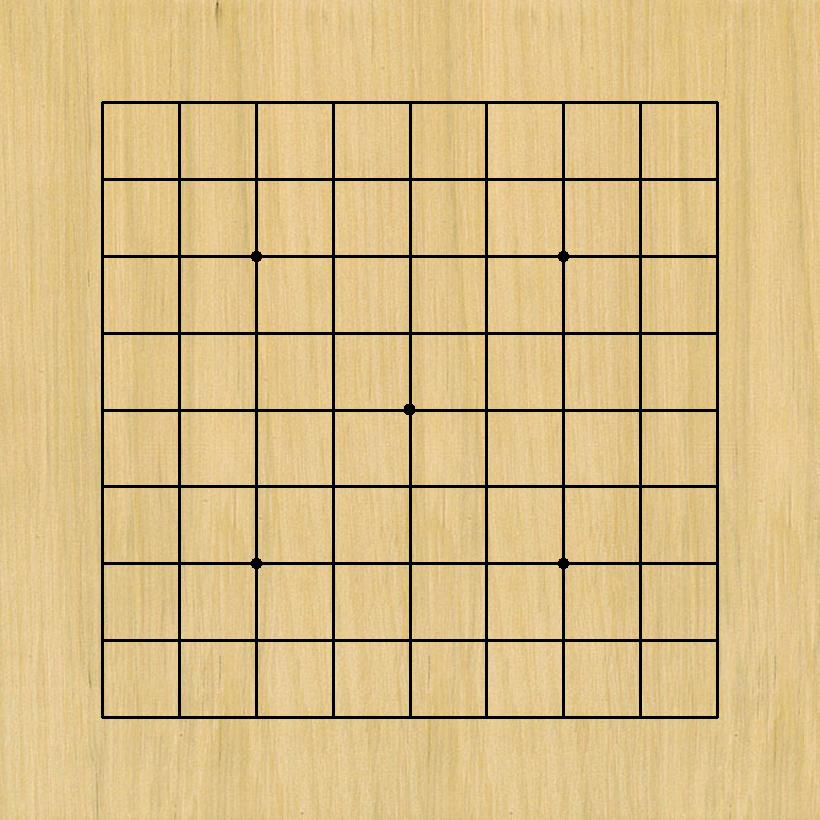
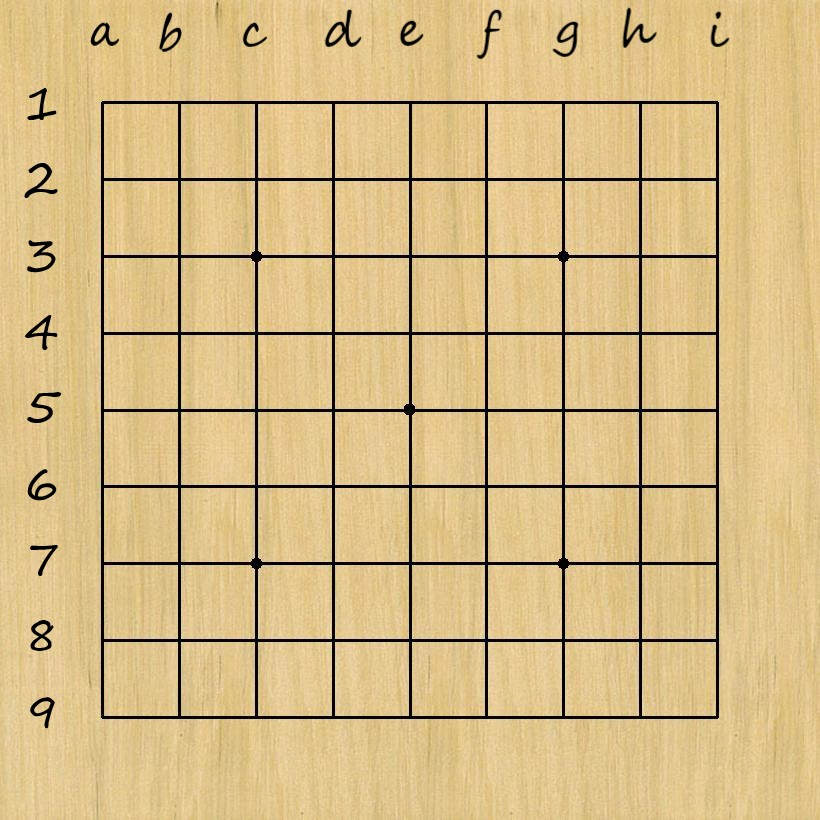
Add indices to game board and clean up

diff --git a/main.py b/main.py
@@ -1,8 +1,11 @@
 import settings
 import logging
+import telegram
+from key import token
 from gamehandler import GameHandler
 from telegram.ext import Updater, CommandHandler, MessageHandler, Filters
 from io import BytesIO
+from exceptions import GoGameException
 
 __author__ = "Rafael Kübler da Silva <rafael_kuebler@yahoo.es>"
 __version__ = "0.1"
@@ -12,25 +15,31 @@ game_handler = GameHandler()
 
 def start(bot, update):
     chat_id = update.message.chat_id
-    bot.send_message(chat_id=chat_id, text=settings.greeting)
-    bot.send_message(chat_id=chat_id, text=settings.commands)
+    bot.send_message(chat_id=chat_id, text=settings.greeting, parse_mode=telegram.ParseMode.MARKDOWN)
+    bot.send_message(chat_id=chat_id, text=settings.commands, parse_mode=telegram.ParseMode.MARKDOWN)
 
 
 def new_game(bot, update):
     chat_id = update.message.chat_id
-    players = get_players(chat_id)
-    game_handler.new_game(chat_id, players)
+    game_handler.new_game(chat_id, update.message.from_user.id)
+    bot.send_message(chat_id=chat_id, text='You created a new game! Another player can join with the /join command.')
+
+
+def join(bot, update):
+    chat_id = update.message.chat_id
+    game_handler.join(chat_id, update.message.from_user.id)
+    bot.send_message(chat_id=chat_id, text='Let the game begin!')
     show_board(bot, update)
 
 
 def place(bot, update):
     chat_id = update.message.chat_id
-    player = update.message.from_user.username
-    coords = update.message.text
+    player = update.message.from_user.id
+    coords = update.message.text.replace('/place ', '')
     try:
         game_handler.place_stone(chat_id, player, coords)
         show_board(bot, update)
-    except Exception as exception:
+    except GoGameException as exception:
         bot.send_message(chat_id=chat_id, text=str(exception))
 
 
@@ -58,21 +67,17 @@ def unknown(bot, update):
     bot.send_message(chat_id=update.message.chat_id, text="Sorry, I didn't understand that command.")
 
 
-def get_players(chat_id):
-    # TODO: fetch users ids in the group with chat_id
-    return [f"{chat_id}:Rafael", f"{chat_id}:Willy"]
-
-
 if __name__ == '__main__':
     logging.basicConfig(format='%(asctime)s - %(name)s - %(levelname)s - %(message)s',
                         level=logging.INFO)
 
-    updater = Updater(token=settings.token)
+    updater = Updater(token=token)
     dispatcher = updater.dispatcher
 
     message_handlers = [
         CommandHandler('start', start),
         CommandHandler('new', new_game),
+        CommandHandler('join', join),
         CommandHandler('place', place),
         CommandHandler('pass', pass_turn),
         CommandHandler('show_board', show_board),

diff --git a/gamehandler.py b/gamehandler.py
@@ -7,34 +7,44 @@ __version__ = "0.1"
 
 
 class Game:
-    def __init__(self, chat_id, players):
+    def __init__(self, chat_id, player):
         self.go_game = GoGame()
-        self.players = players
+        self.players = [player]
         self.chat_id = chat_id
-        self.cur_player = players[1]
+        self.cur_player = None
+
+    def add_player(self, player):
+        self.players.append(player)
+        self.cur_player = player
 
 
 class GameHandler:
     def __init__(self):
         self.games = {}
 
-    def new_game(self, chat_id, players):
+    def new_game(self, chat_id, player):
         # TODO: add import for detected saved games
-        self.games[chat_id] = Game(chat_id, players)
+        self.games[chat_id] = Game(chat_id, player)
+
+    def join(self, chat_id, player):
+        # TODO: add import for detected saved games
+        game = self.get_game_with_chat_id(chat_id)
+        game.add_player(player)
 
     def place_stone(self, chat_id, player, coord):
         game = self.get_game_with_chat_id(chat_id)
+        exceptions.sanitize_all_players_ready(game)
         exceptions.sanitize_player_turn(player, game.cur_player)
-        game.place_stone(player, coord)
+        game.go_game.place_stone(coord)
 
     def cur_player(self, chat_id):
         game = self.get_game_with_chat_id(chat_id)
         return game.cur_player
 
     def pass_turn(self, chat_id, player):
+        # TODO: implement pass
         game = self.get_game_with_chat_id(chat_id)
         exceptions.sanitize_player_turn(player, game.cur_player)
-        # TODO: implement pass
 
     def create_image(self, chat_id):
         game = self.get_game_with_chat_id(chat_id)

diff --git a/go.py b/go.py
@@ -43,12 +43,8 @@ class Stone:
         return adjacent_groups
 
     def capture_neighbors(self):
-        print('Searching for groups to capture...')
         for group in self.adjacent_groups:
-            print(f'Adjacent group: {group}')
-            print(f'  Liberties of group: {group.liberties}')
             if group.color != self.color and not group.liberties:
-                print(f'Capturing group...')
                 group.capture()
 
     @property
@@ -69,7 +65,6 @@ class Stone:
         group.stones.add(self)
         for adj_group in adjacent_groups:
             if adj_group.color == self.color:
-                print(f'Merging {group} with {adj_group}...')
                 group.merge(adj_group)
         return group
 
@@ -129,9 +124,9 @@ class GoGame:
         x, y = self.transform_coords(coords)
         exceptions.sanitize_pos_taken(x, y, self.board)
         # TODO: "Ko" rule
+        # TODO: Do not allow suicides
         Stone(x, y, self.cur_color, self.board)
         self.change_turn()
-        print(f'Changed turn to {self.cur_color}')
 
     def change_turn(self):
         if self.cur_color == Color.BLACK:
@@ -141,6 +136,7 @@ class GoGame:
 
     @staticmethod
     def transform_coords(coords):
+        # TODO: implement notation as in https://senseis.xmp.net/?Coordinates
         letter = ord(coords[0]) - ord('a')
         number = int(coords[1]) - 1
         return letter, number

diff --git a/exceptions.py b/exceptions.py
@@ -2,22 +2,32 @@ __author__ = "Rafael Kübler da Silva <rafael_kuebler@yahoo.es>"
 __version__ = "0.1"
 
 
-class InexistentGameException(Exception):
+class GoGameException(Exception):
     def __init__(self, message):
         super().__init__(message)
 
 
-class IncorrectTurnException(Exception):
+class InexistentGameException(GoGameException):
     def __init__(self, message):
         super().__init__(message)
 
 
-class InvalidCoordinatesException(Exception):
+class IncorrectTurnException(GoGameException):
     def __init__(self, message):
         super().__init__(message)
 
 
-class CoordOccupiedException(Exception):
+class InvalidCoordinatesException(GoGameException):
+    def __init__(self, message):
+        super().__init__(message)
+
+
+class CoordOccupiedException(GoGameException):
+    def __init__(self, message):
+        super().__init__(message)
+
+
+class NotEnoughPlayersException(GoGameException):
     def __init__(self, message):
         super().__init__(message)
 
@@ -42,3 +52,8 @@ def sanitize_stone_coords(coords, board):
 def sanitize_pos_taken(x, y, board):
     if board.stones[x][y] is not None:
         raise CoordOccupiedException("This coordinate already holds a stone!")
+
+
+def sanitize_all_players_ready(game):
+    if game.cur_player is None:
+        raise NotEnoughPlayersException("Another player needs to join the game!")

diff --git a/goscreenshot.py b/goscreenshot.py
@@ -38,9 +38,9 @@ def draw_stone(draw, stone):
     if stone is None:
         return
     x, y = stone.coords
-    color = WHITE if stone.color == Color.White else BLACK
-    bb_start = (startx+widthx*(x-1)-stone_sizex, starty+widthy*(y-1)-stone_sizey)
-    bb_end = (startx+widthx*(x-1)+stone_sizex, starty+widthy*(y-1)+stone_sizey)
+    color = WHITE if stone.color is Color.WHITE else BLACK
+    bb_start = (startx+widthx*x-stone_sizex, starty+widthy*y-stone_sizey)
+    bb_end = (startx+widthx*x+stone_sizex, starty+widthy*y+stone_sizey)
     draw.ellipse((bb_start, bb_end), fill=color)
 
 

diff --git a/settings.py b/settings.py
@@ -1,0 +1,8 @@
+greeting = "*Hi!* I am *Go Sensei* and will take care of your *Go* game!"
+
+commands = "These are my available commands:\n" \
+           "  /new - start a new game\n" \
+           "  /join - join an already created game\n" \
+           "  /place _coords_ - play stone at given coordinates (e.g. _/place a1_)\n" \
+           "  /pass - to pass your turn\n" \
+           "  /save - to save the game on the server"

diff --git a/README.md b/README.md
@@ -1,7 +1,7 @@
 # GoSenseiBot
 
 *GoSenseiBot* is a [Telegram](https://telegram.org/) bot that allows you to play the very
-popular game *GO (Goban)* in a Telegram chat with you friends!
+popular game *GO* in a Telegram chat with you friends!
 
 *GoSenseiBot* will accept commands such as "/place a4" and send
 you a visualization of the game board after every move.
